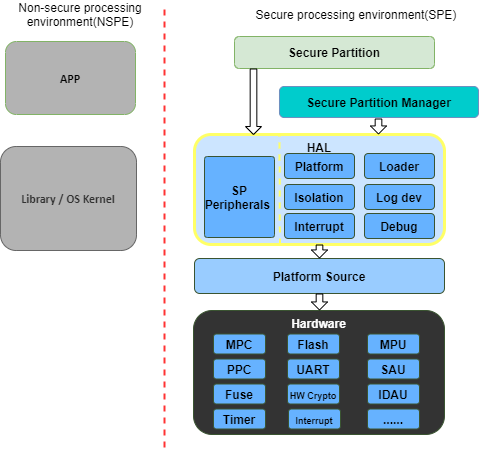
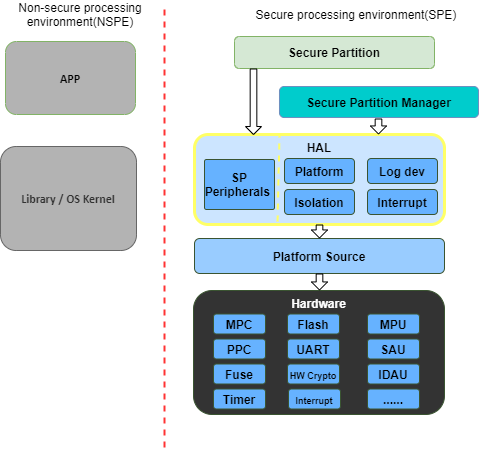
Docs: Update overall HAL design
This patch updates the overall design of HAL, including:
 - Removing loader API set. It was a long term design, currently
   it is not necessary.
 - Updating structure diagram by removing loader and debug API block.
   Loader API is being removed and debug API is yet to be worked out.

Changed region(s): [[0.38, 0.2806, 0.9353, 0.9666], [0.4092, 0.2806, 0.4384, 0.3118]]

diff --git a/docs/design_documents/hardware_abstraction_layer.rst b/docs/design_documents/hardware_abstraction_layer.rst
@@ -54,8 +54,6 @@ Here lists a minimal set of necessary functionalities:
     to check the permissions of memory access.
   - **Platform API**: Provides the platform initialization, platform-specific
     memory information, system reset, etc.
-  - **Loader API**: Provides the functions to load partitions and services and
-    provides the necessary data to :term:`SPM`.
   - **Log dev API**: Provides the log system functions.
   - **Interrupt API**: Provides the interrupt functions.
 
